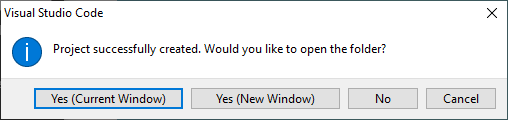
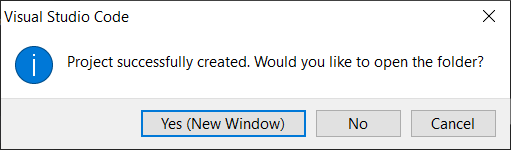
Remove known issue for trust after new project
VSCode plugin no longer opens in same window which triggered the VS Code
bug
Update picture for opening project
Add the picture in one place it was missing

diff --git a/source/docs/yearly-overview/known-issues.rst b/source/docs/yearly-overview/known-issues.rst
@@ -8,21 +8,6 @@ This article details known issues (and workarounds) for FRC\ |reg| Control Syste
 Open Issues
 -----------
 
-WPILib VS Code extension not loaded after creating new project or importing
-^^^^^^^^^^^^^^^^^^^^^^^^^^^^^^^^^^^^^^^^^^^^^^^^^^^^^^^^^^^^^^^^^^^^^^^^^^^
-
-**Issue:** After creating a new project or importing a project, the WPILib extension doesn't enable and you can't build or deploy code or use any other function of the WPILib extension. This is because the new project isn't trusted by VS Code, but VS Code doesn't prompt to trust the project.
-
-.. image:: /docs/software/vscode-overview/images/creating-robot-program/trusted-workspace.png
-   :alt: Trusted Workspace dialog in VS Code.
-
-**Workaround:** There are a few workarounds to have the trust dialog box appear so that the project can be trusted and allow the extension to enable
-
-- After using the project creator or importer, choose the :guilabel:`Yes (new window)` option intead of :guilabel:`Yes (current window)`
-- Open another program and then switch back VS Code again. VS Code will then open the dialog box to trust the project
-- Click on the extensions button, then on the WPILib extension and select :guilabel:`Enable (workspace)` then select :guilabel:`Trust Folder & Continue`
-- Click the WPILib extension logo in the upper right corner if it exists. VS Code will then open the dialog box to trust the project
-
 Onboard I2C Causing System Lockups
 ^^^^^^^^^^^^^^^^^^^^^^^^^^^^^^^^^^
 

diff --git a/source/docs/software/vscode-overview/creating-robot-program.rst b/source/docs/software/vscode-overview/creating-robot-program.rst
@@ -143,7 +143,8 @@ Opening The New Project
 
 After successfully creating your project, VS Code will give the option of opening the project as shown below. We can choose to do that now or later by typing :kbd:`Ctrl+K` then :kbd:`Ctrl+O` (or just :kbd:`Command+O` on macOS) and select the folder where we saved our project.
 
-.. note:: Due to a known issue it is recommended to choose :guilabel:`Yes (new window)`. :ref:`docs/yearly-overview/known-issues:WPILib VS Code extension not loaded after creating new project or importing`
+.. image:: images/importing-previous-project/opening-project.png
+   :alt: Opening Project pop-up in VS Code
 
 Once opened we will see the project hierarchy on the left. Double clicking on the file will open that file in the editor.
 

diff --git a/source/docs/zero-to-robot/step-4/creating-benchtop-test-program-cpp-java.rst b/source/docs/zero-to-robot/step-4/creating-benchtop-test-program-cpp-java.rst
@@ -41,8 +41,6 @@ Opening The New Project
 
 After successfully creating your project, VS Code will give the option of opening the project as shown above. We can choose to do that now or later by typing :kbd:`Ctrl+K` then :kbd:`Ctrl+O` (or just :kbd:`Command+O` on macOS) and select the folder where we saved our project.
 
-.. note:: Due to a known issue it is recommended to choose :guilabel:`Yes (new window)`. :ref:`docs/yearly-overview/known-issues:WPILib VS Code extension not loaded after creating new project or importing`
-
 .. image:: /docs/software/vscode-overview/images/creating-robot-program/trusted-workspace.png
    :alt: Trusted Workspace dialog in VS Code.
 

diff --git a/source/docs/software/vscode-overview/importing-gradle-project.rst b/source/docs/software/vscode-overview/importing-gradle-project.rst
@@ -37,8 +37,6 @@ Click :guilabel:`Import Project` to begin the upgrade.
 
 The gradle project will be upgraded and copied into the new project directory. You can then either open the new project immediately using the pop-up below or open it later using the :kbd:`Ctrl+O` (or :kbd:`Command+O` for macOS) shortcut.
 
-.. note:: Due to a known issue it is recommended to choose :guilabel:`Yes (new window)`. :ref:`docs/yearly-overview/known-issues:WPILib VS Code extension not loaded after creating new project or importing`
-
 .. image:: images/importing-previous-project/opening-project.png
    :alt: Opening Project pop-up in VS Code
 
